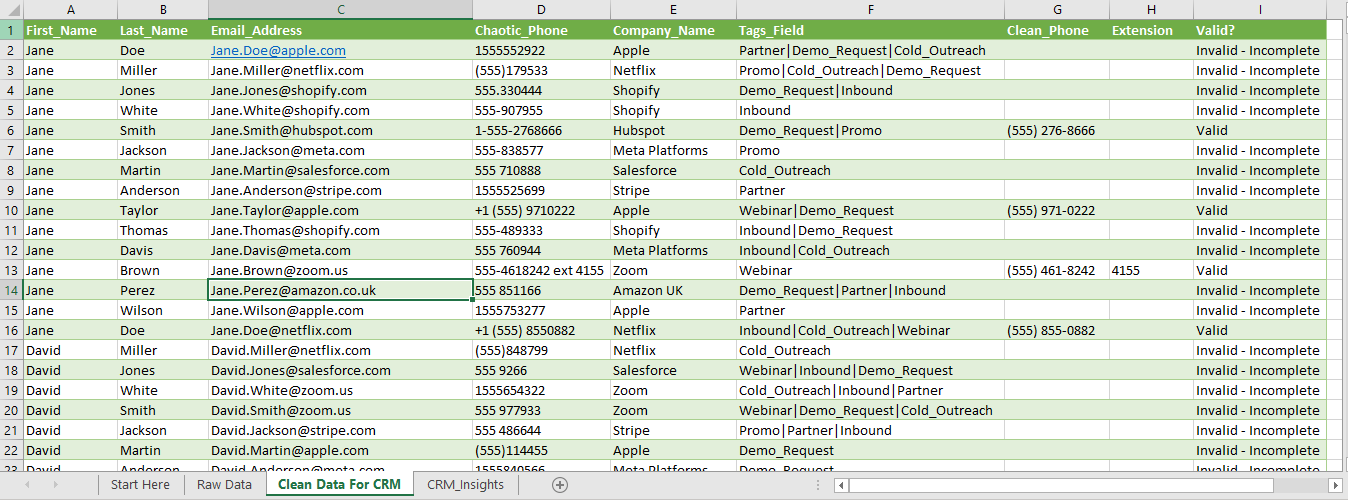
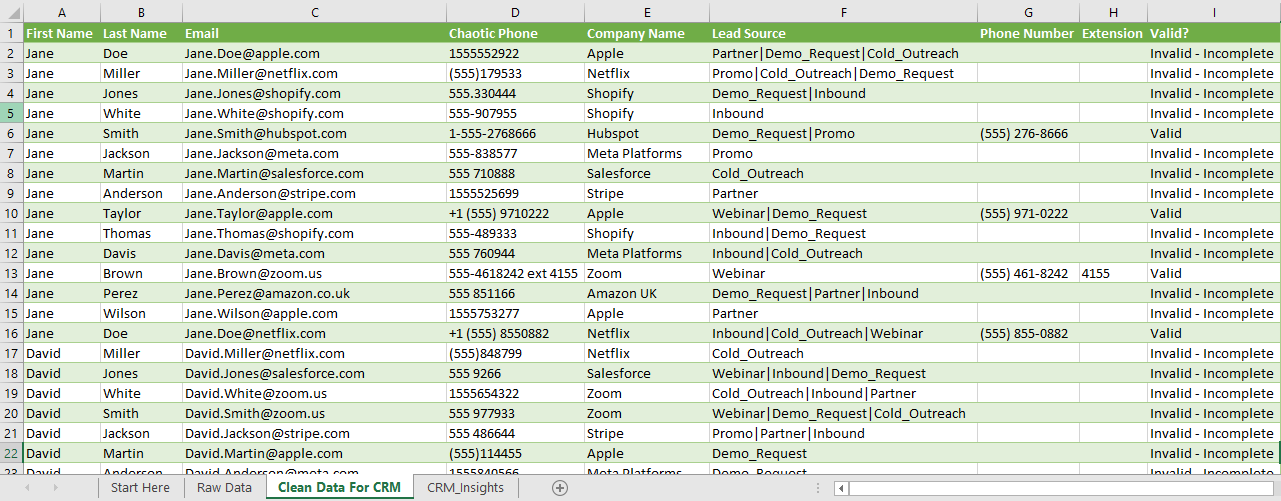
path modified

diff --git a/Project 2 The Messy CRM Cleanup Pipeline/README.md b/Project 2 The Messy CRM Cleanup Pipeline/README.md
@@ -57,7 +57,7 @@ No VBA. No manual cleaning. Paste → Refresh → Export.
 ![Clean Output](Images/04-cleaned-output.png)
 
 ### 4. Executive KPI Dashboard
-![Insights](images/05-crm-insight.png)
+![Insights](Images/05-crm-insight.png)
 
 ---
 
